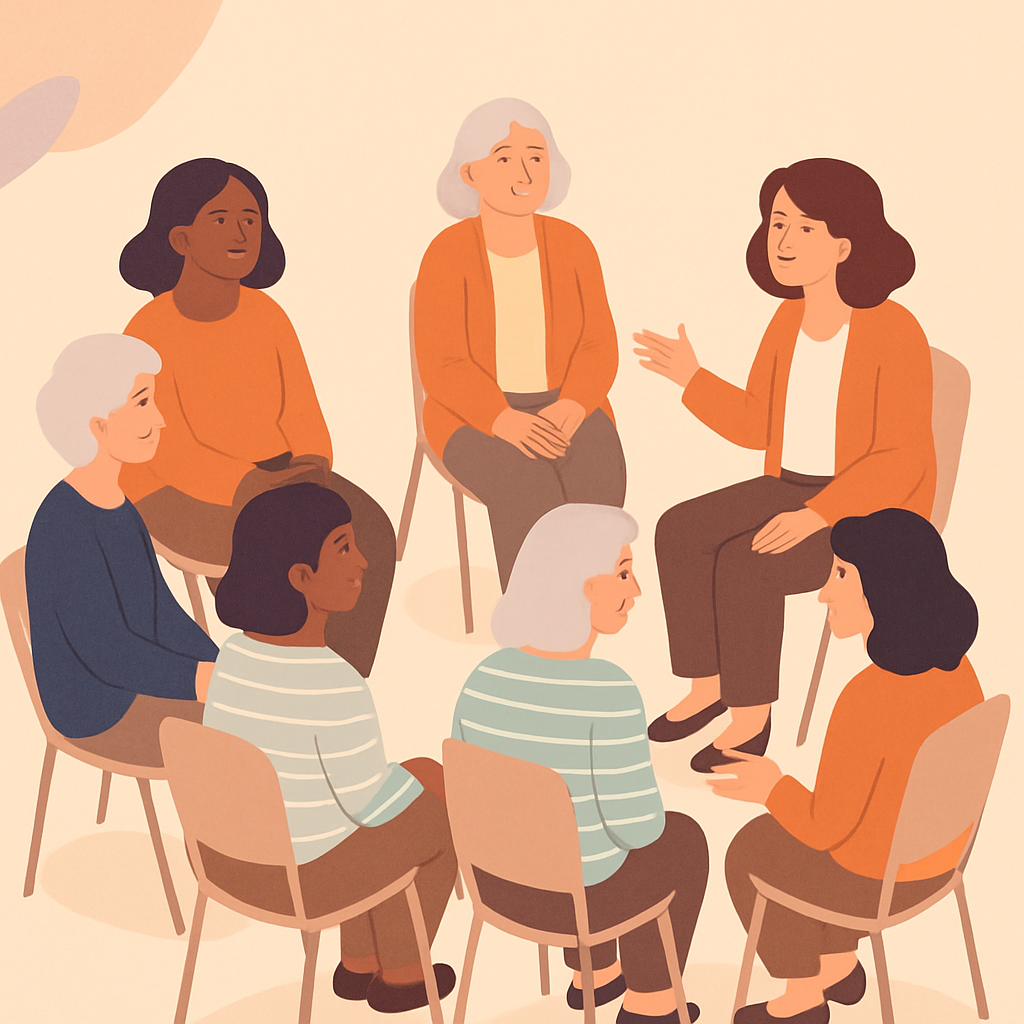
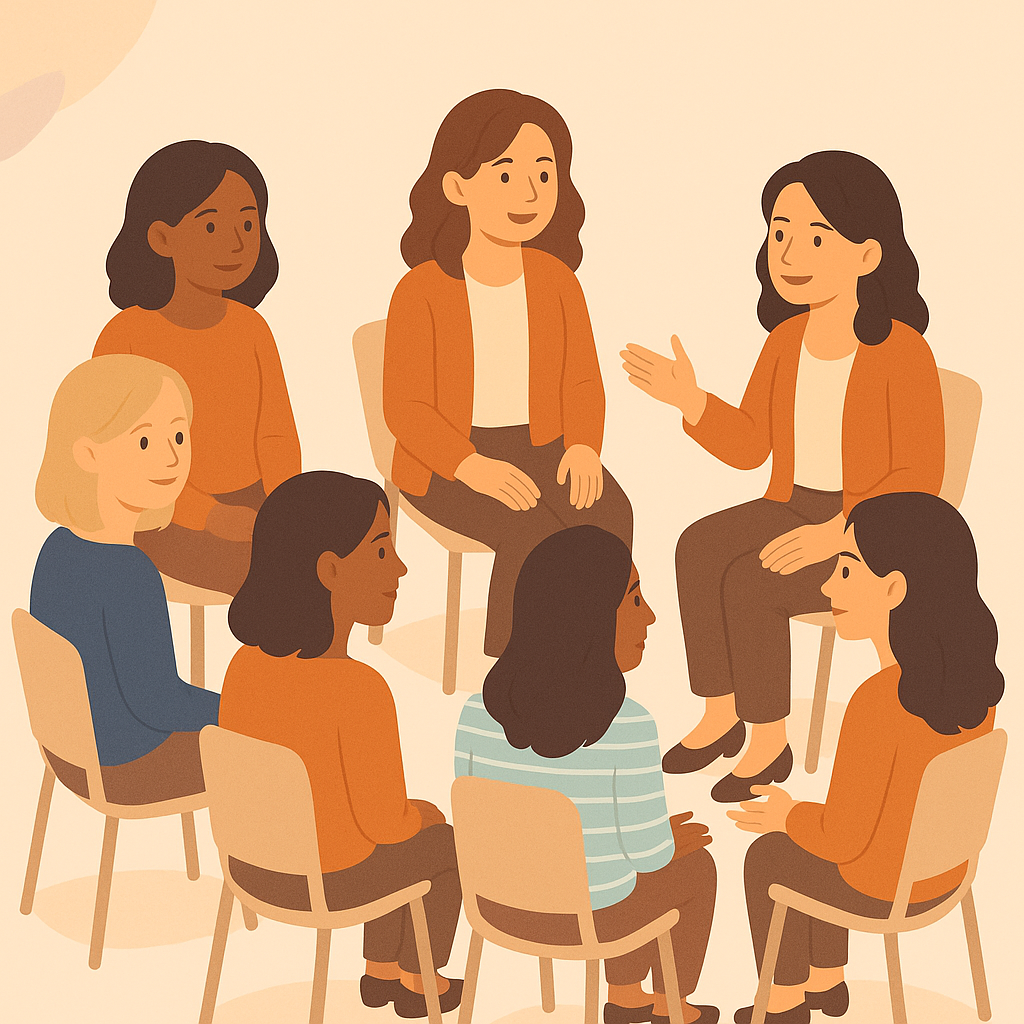
.

diff --git a/mokup_1.html b/mokup_1.html
@@ -125,7 +125,7 @@
                 </p>
                 <div class="author">
                   <span>Por</span>
-                  <h3>Lorena Laserre y equipo SGM</h3>
+                  <h3>Lorena Laserre y equipo SGM+</h3>
                 </div>
                 <p class="book-description">
                   Creamos espacios de escucha, reflexión y acción para mujeres
